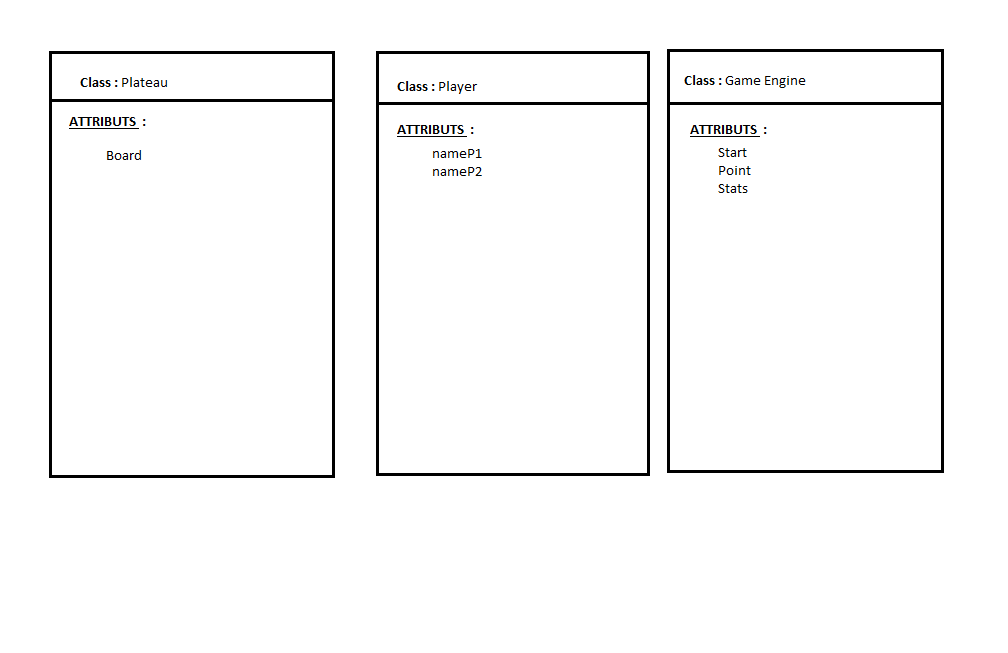
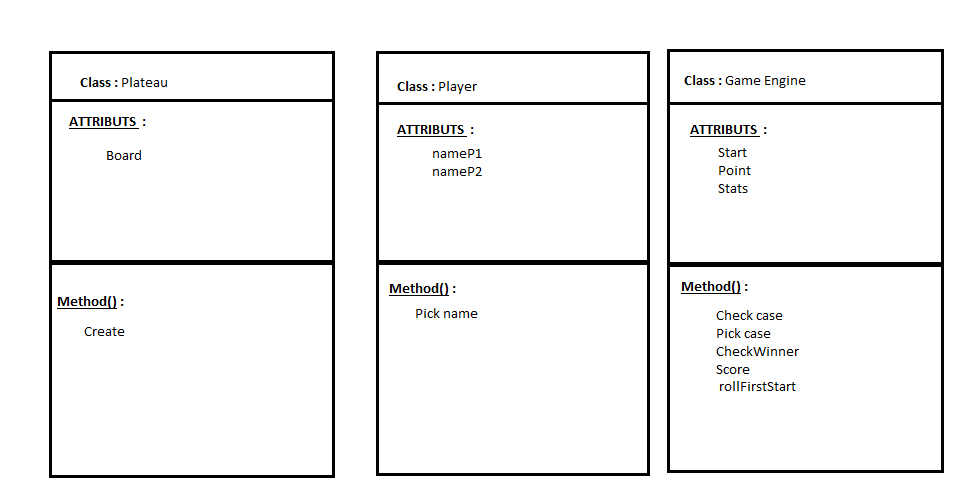
update

diff --git a/classPlayer.py b/classPlayer.py
@@ -7,3 +7,6 @@ class Player:
         self.firstPlayer = firstPlayer
         self.secondPlayer = secondPlayer
 
+    def PickName(self,firstPlayer,secondPlayer):
+        firstPlayer = input("First player name:\n")
+        secondPlayer = input("Second player name:\n")

diff --git a/classGameEngine.py b/classGameEngine.py
@@ -1,0 +1,7 @@
+from classPlayer import *
+
+
+class GameEngine:
+
+    def __init__(self, firstPlayer, secondPlayer):
+        self.players = Player()
